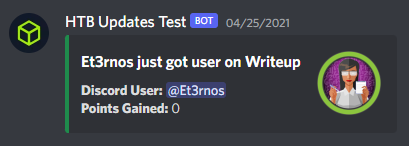
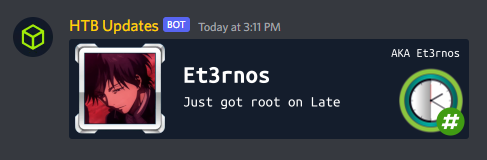
Golden borders for verified users

diff --git a/HTB Updates Discord Bot/SolvesChecker.cs b/HTB Updates Discord Bot/SolvesChecker.cs
@@ -137,30 +137,6 @@ namespace HTB_Updates_Discord_Bot
             {
                 var channel = client.GetGuild(dUser.Guild.GuildId).GetTextChannel(dUser.Guild.ChannelId);
 
-                /*
-                switch (solve.Type) {
-                    case "challenge":
-                        eb.WithTitle($"{htbUser.Username} just solved {solve.Name}");
-                        break;
-                    case "user":
-                        eb.WithTitle($"{htbUser.Username} just got user on {solve.Name}");
-                        break;
-                    case "root":
-                        eb.WithTitle($"{htbUser.Username} just got root on {solve.Name}");
-                        break;
-                }
-
-                eb.Description += $"**Discord User:** <@{dUser.DiscordId}>\n";
-
-                if (!string.IsNullOrEmpty(solve.ChallengeCategory)) {
-                    eb.Description += $"**Challenge Category:** {solve.ChallengeCategory}\n";
-                }
-                eb.Description += $"**Points Gained:** {solve.Points}\n";
-
-                if (!string.IsNullOrEmpty(solve.MachineAvatar)) {
-                    eb.WithThumbnailUrl($"https://hackthebox.com{solve.MachineAvatar}");
-                }*/
-
                 using var stream = await GetSolvesImage(dUser, htbUser, solve);
                 await channel.SendFileAsync(stream, "solve.png", "");
             }
@@ -172,8 +148,10 @@ namespace HTB_Updates_Discord_Bot
 
         public async Task<MemoryStream> GetSolvesImage(DiscordUser dUser, HTBUser htbUser, Solve solve)
         {
+            var framePath = dUser.Verified ? "Files/gold_frame.png" : "Files/frame.png";
+
             using var image = await Image.LoadAsync<Rgba32>("Files/solve.png");
-            using var frame = await Image.LoadAsync<Rgba32>("Files/frame.png");
+            using var frame = await Image.LoadAsync<Rgba32>(framePath);
             using var userImage = await Image.LoadAsync<Rgba32>("Files/user.png");
             using var rootImage = await Image.LoadAsync<Rgba32>("Files/root.png");
             userImage.Mutate(x => x.Resize(65, 60));
@@ -221,12 +199,12 @@ namespace HTB_Updates_Discord_Bot
 
             image.Mutate(x =>
             {
-                x.DrawImage(frame, new Point(12, 9), 1);
                 if (user != null)
                 {
                     x.DrawText(new TextOptions(top) { HorizontalAlignment = HorizontalAlignment.Right, Origin = new PointF(782, 15) }, $"AKA {user.Username}", SixLabors.ImageSharp.Color.White);
                     x.DrawImage(avatar, new Point(32, 29), 1);
                 }
+                x.DrawImage(frame, new Point(12, 9), 1);
                 if (isMachine) x.DrawImage(solveAvatar, new Point(660, 59), 1);
                 if (solve.Type == "user") x.DrawImage(userImage, new Point(731, 135), 1);
                 if (solve.Type == "root") x.DrawImage(rootImage, new Point(733, 135), 1);
